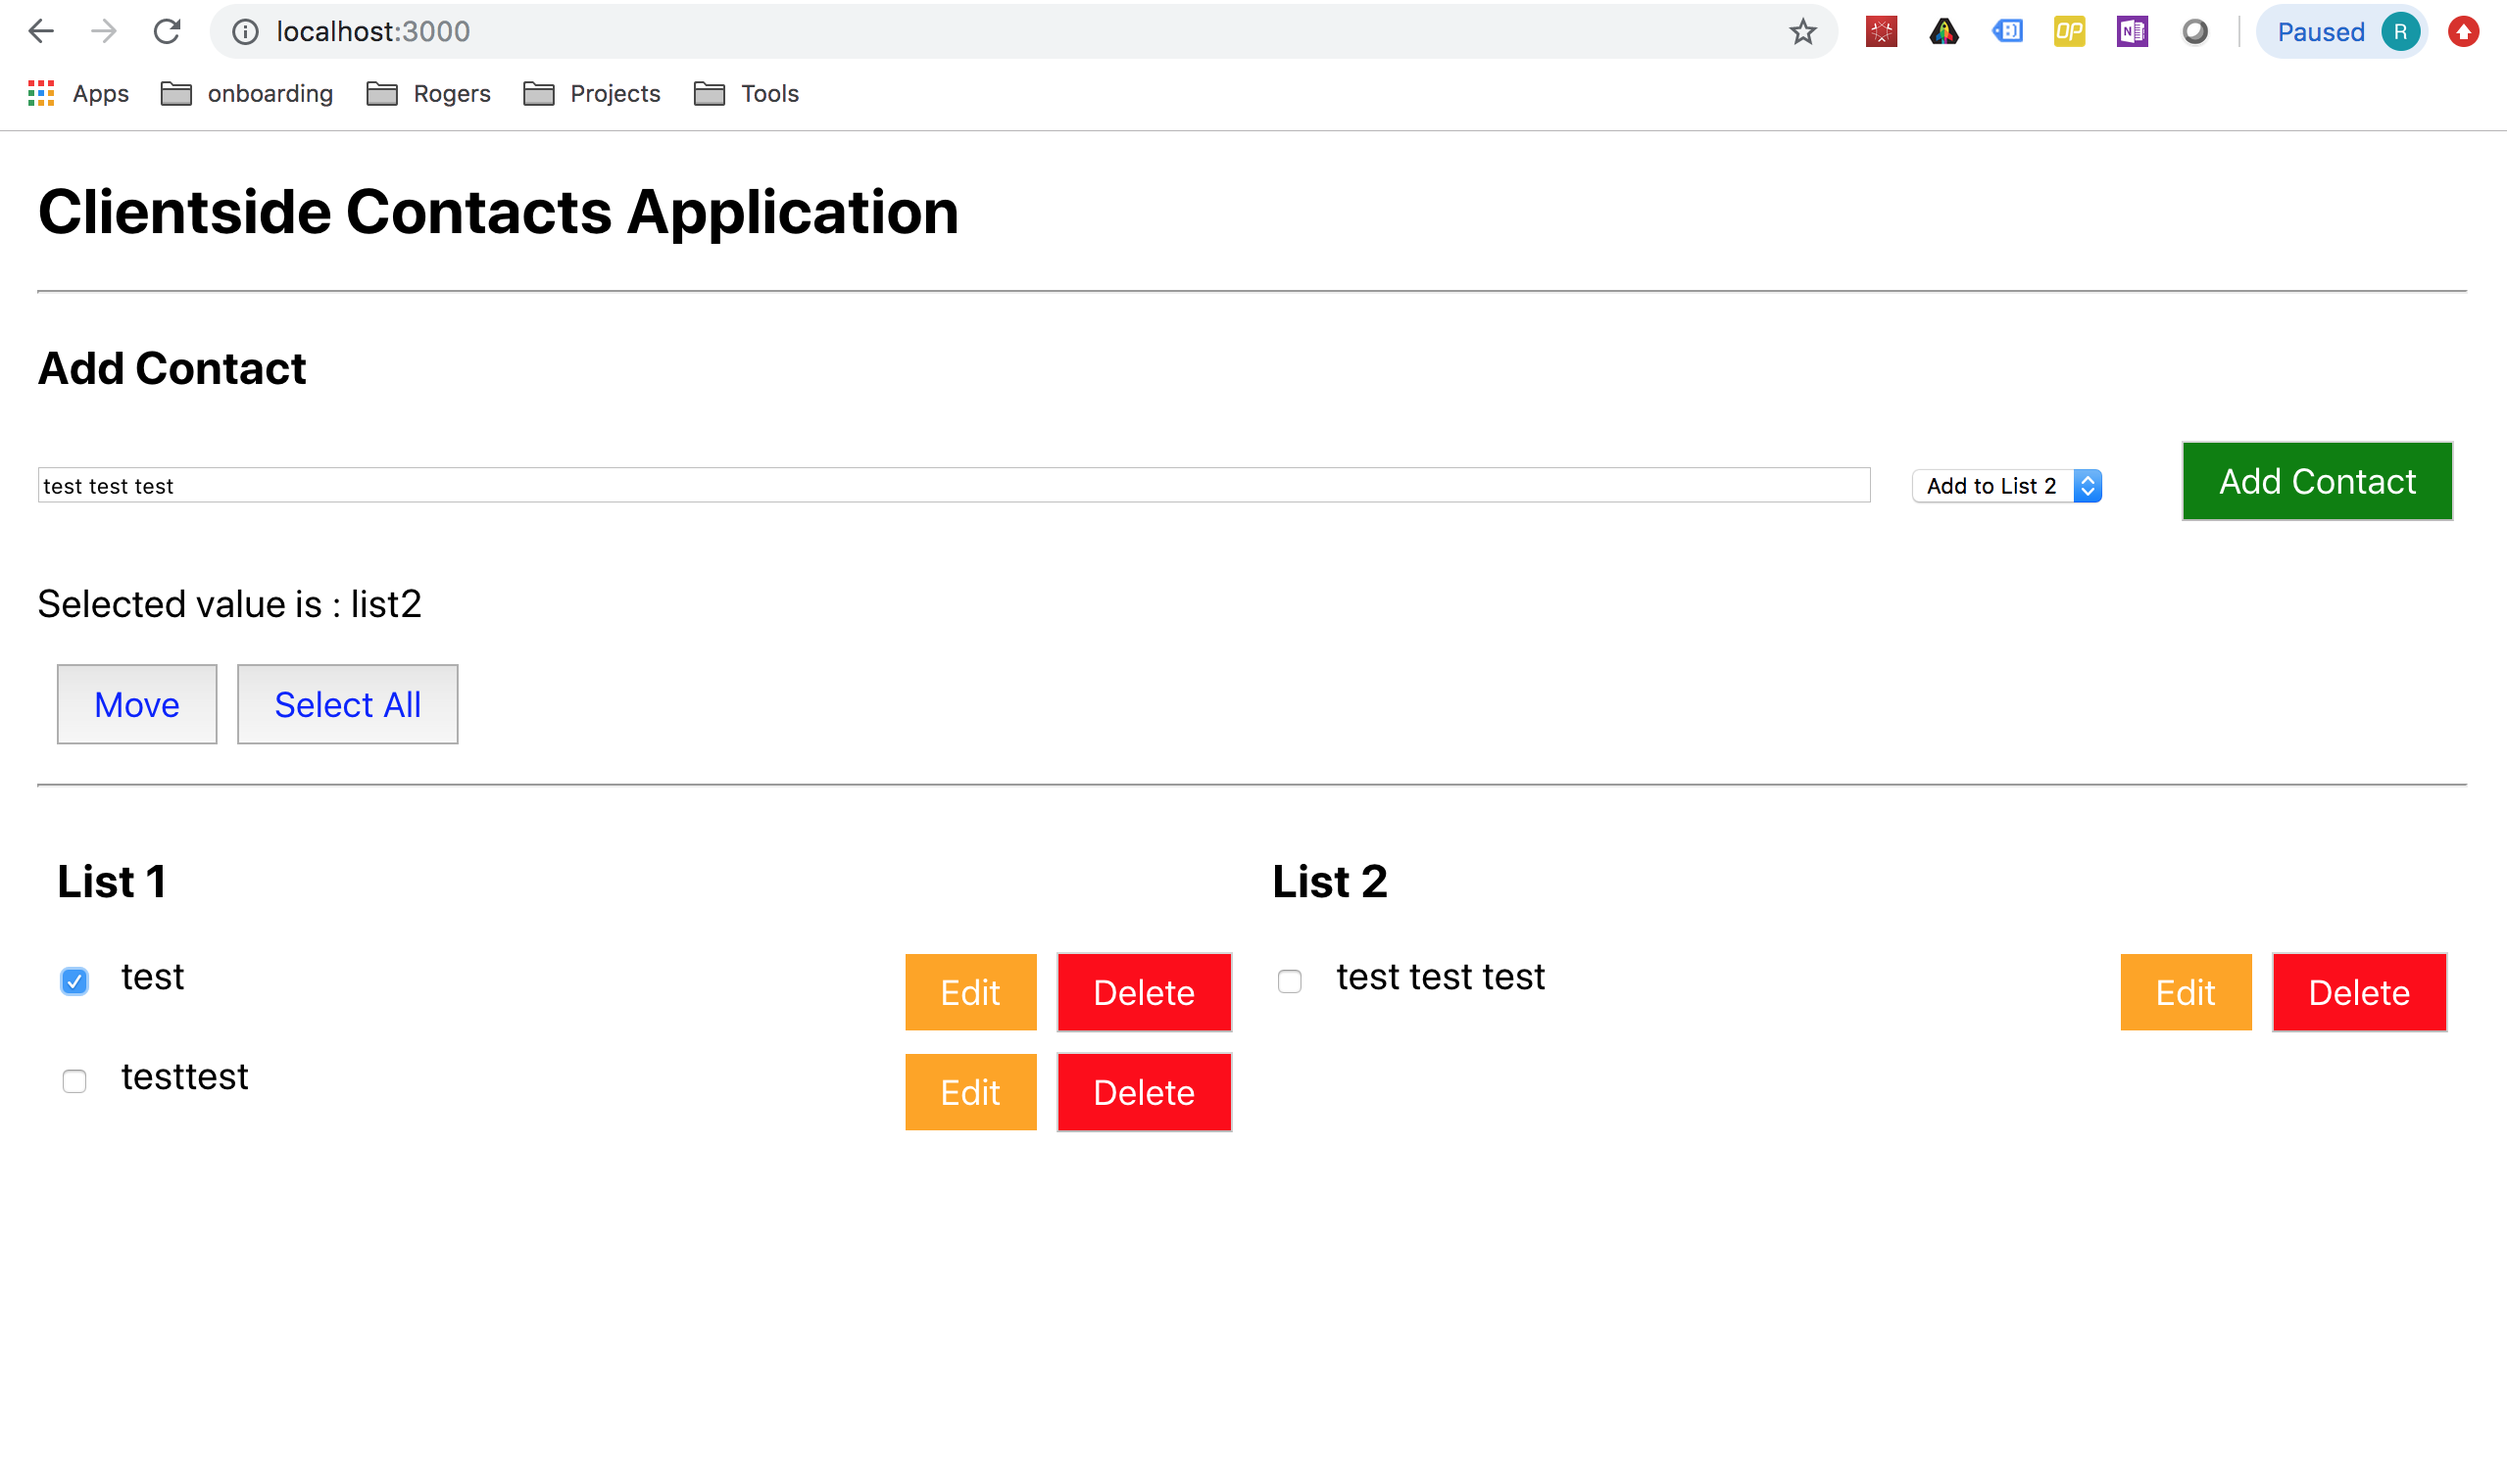
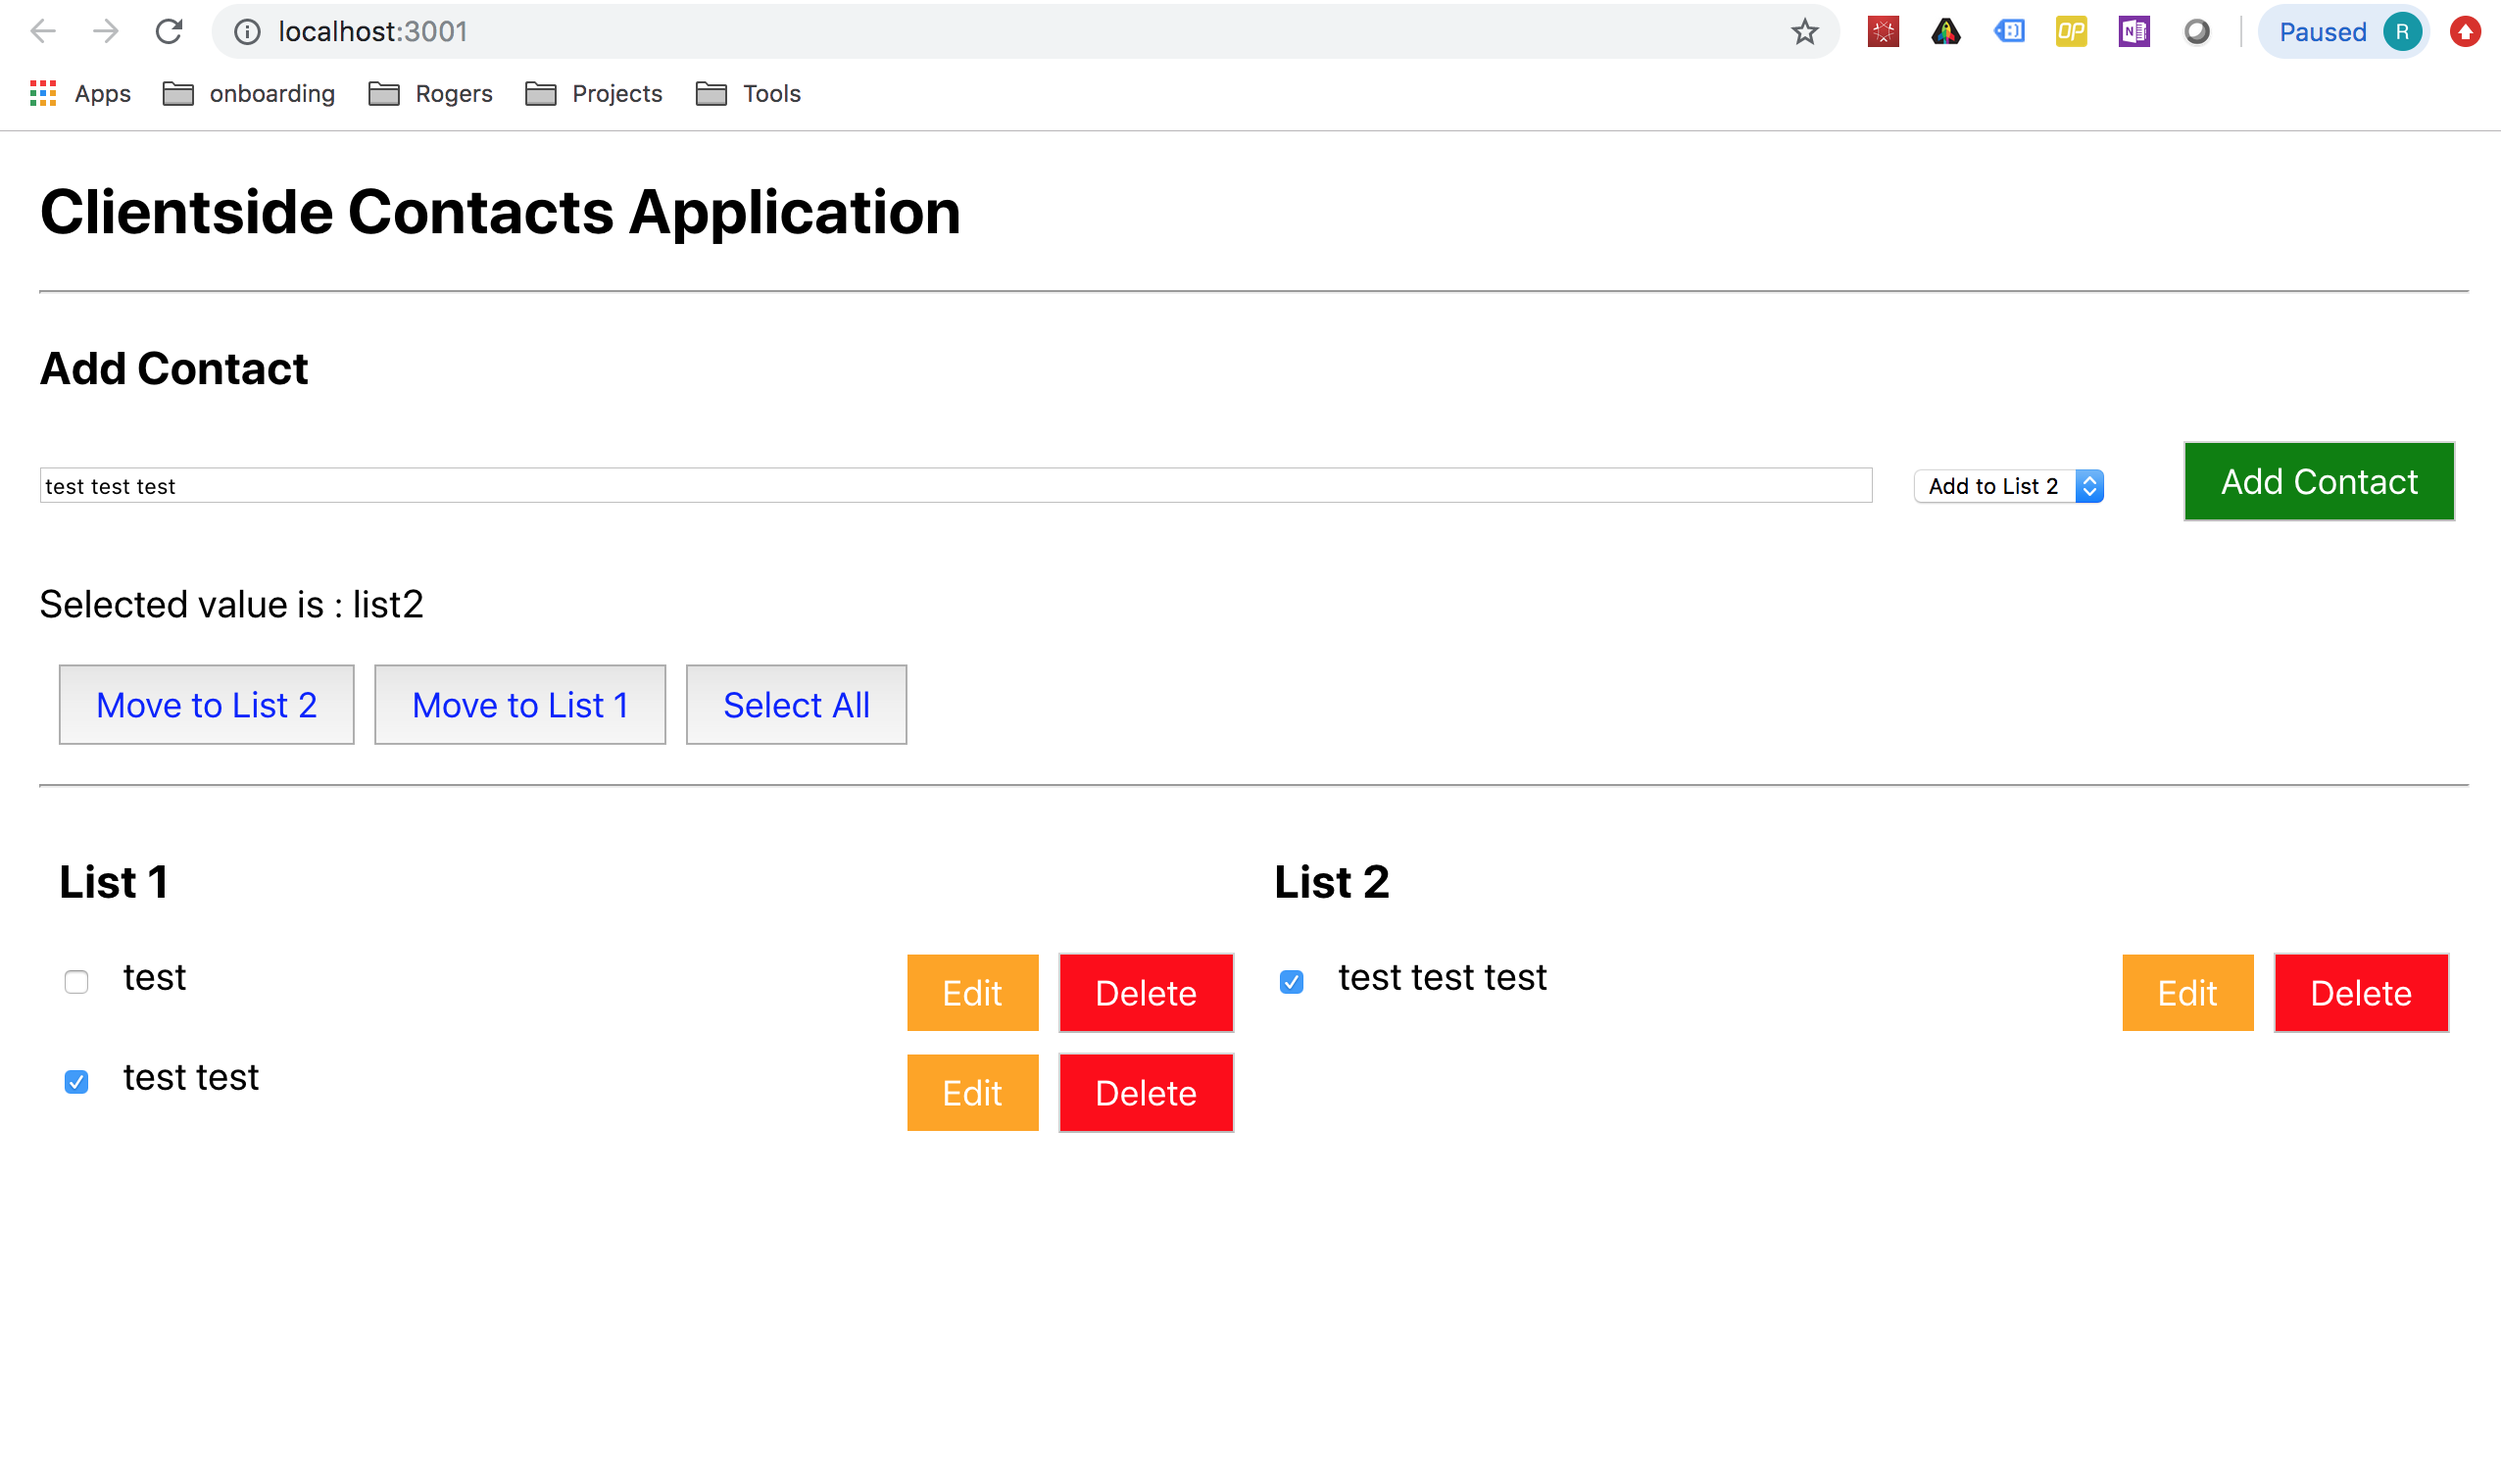
finished move reducer now

diff --git a/src/reducers/contactReducer.js b/src/reducers/contactReducer.js
@@ -60,29 +60,35 @@ export default (state = initialState, action) => {
         return {
           ...state,
           // if contact is in list 1, then:
-          list1: state.list1.filter(data => data.id !== action.id),
+          list1: state.list1.filter(contact => contact.id !== action.id),
           // else contact is in list 2, then
-          list2: state.list2.filter(data => data.id !== action.id)
+          list2: state.list2.filter(contact => contact.id !== action.id)
         };
 
       case actionTypes.EDIT_CONTACT:
         return state;
 
       case actionTypes.MOVE_CONTACT:
-        // if the contact is in list 1
-        // then remove the item from list 1
-        // add item to list 2
+        
+        if (action.list === "list2") {
+          const movedContacts = state.list1.filter(contact => contact.checked);
+          return {
+            ...state,
+            // if contact is moving from list 1 to list 2 (if list2):
+            list1: state.list1.filter(contact => !contact.checked),
+            list2: [...state.list2, ...movedContacts],
+  
+          };
+        } else {
+          const movedContacts = state.list2.filter(contact => contact.checked);
+          return {
+            ...state,
+            // if contact is moving from list 2 to list 1 (if list1):
+            list2: state.list2.filter(contact => !contact.checked),
+            list1: [...state.list1, ...movedContacts],
 
-        // if (contact.id === action.id) {
-        //   console.log("test test move contact", action.id);
-        // }
-
-        console.log("test test move contact", action.id);
-
-        return state;
-        // if the contact is in list 2
-        // then remove the item from list 2
-        // add item to list 1
+          };
+        }
 
 
       case actionTypes.TOGGLE_CHECKED:
@@ -111,5 +117,3 @@ export default (state = initialState, action) => {
         return state;
     }
   };
-
-  // Change the Edit function case as above

diff --git a/src/components/Form.js b/src/components/Form.js
@@ -42,8 +42,8 @@ class Form extends Component {
     this.props.selectAll();
   }
 
-  moveContact() {
-    this.props.moveContact();
+  moveContact(list) {
+    this.props.moveContact(list);
   }
 
   render() {
@@ -67,7 +67,8 @@ class Form extends Component {
             </form>
             <p>Selected value is : {this.state.selectValue}</p>
 
-            <button className="btn feature-button" onClick={this.moveContact}>Move</button>
+            <button className="btn feature-button" onClick={() => this.moveContact("list2")}>Move to List 2</button>
+            <button className="btn feature-button" onClick={() => this.moveContact("list1")}>Move to List 1</button>
             <button className="btn feature-button" onClick={this.selectAll}>Select All</button>
             <hr />
 
@@ -100,7 +101,7 @@ const mapDispatchToProps = (dispatch) => {
   return {
     createContact: (contact, list) => dispatch(contactAction.createContact(contact, list)),
     selectAll: () => dispatch(contactAction.selectAll()),
-    moveContact: () => dispatch(contactAction.moveContact()),
+    moveContact: (list) => dispatch(contactAction.moveContact(list)),
   }
 };
 

diff --git a/src/actions/contactAction.js b/src/actions/contactAction.js
@@ -24,13 +24,10 @@ export const editContact = (id) => {
   }
 }
 
-// export const moveContact = (contact, checked, list) => {
-export const moveContact = (contact) => {
+export const moveContact = (list) => {
   return {
     type: actionTypes.MOVE_CONTACT,
-    contact: contact,
-    // checked: checked,
-    // list: list,
+    list: list,
   }
 }
 

diff --git a/src/App.js b/src/App.js
@@ -9,7 +9,7 @@ import Edit from './components/Edit';
 class App extends Component {
   render() {
     return(
-      <Router>
+      <Router basename="/">
         <div className="frame">
           <h1>Clientside Contacts Application</h1>
           <hr />

diff --git a/README.md b/README.md
@@ -31,16 +31,15 @@ I also have done:
 
 - [x]  Let user choose which list to add items to - list 1 or 2?
 
-- [ ] so you can select from list 1 and move them all once to list 2
-- [ ] so you can select from list 2 and move them all once to list 1
-
 - [x] Link the checkboxes to state
 - [x] Get Select All button to work
 
 Sept 9, 2019:
 - [x] Design = change the table to CSS Grid to remove all the errors
 - [x] Make the move button functional (actions and reducers)
-- [ ] Get the move button to change the selected from one list to the other list
+- [x] Get the move button to change the selected from one list to the other list
+  - [x] so you can select from list 1 and move them all once to list 2
+  - [x] so you can select from list 2 and move them all once to list 1
 
 ------------------------------------------------------------------------
 
